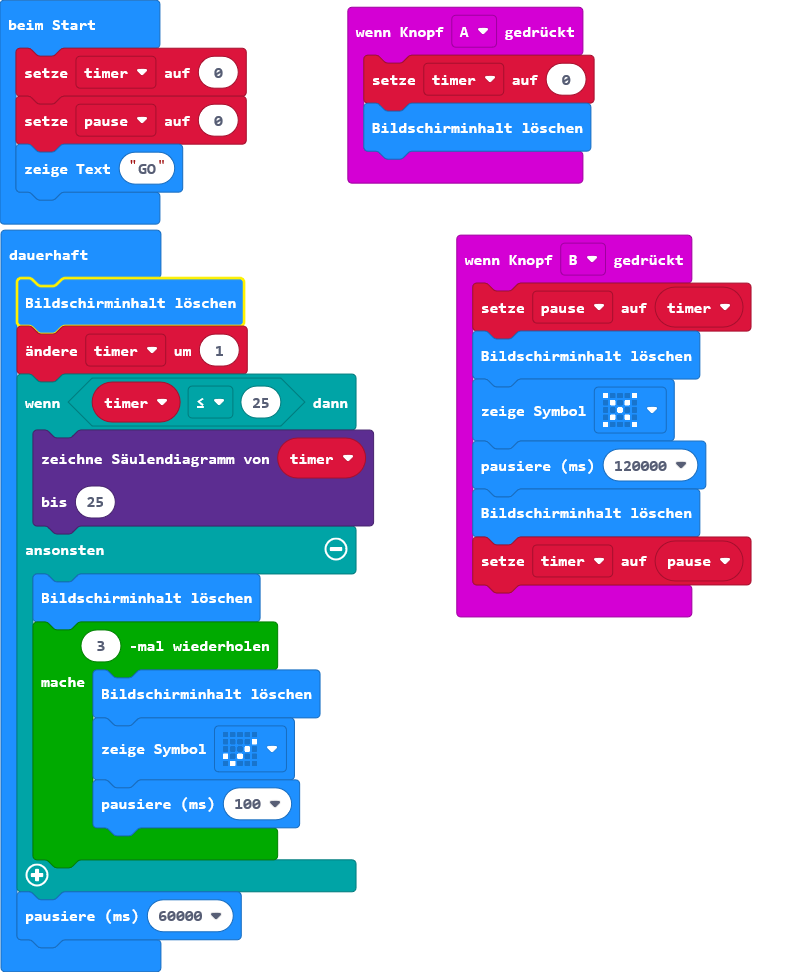
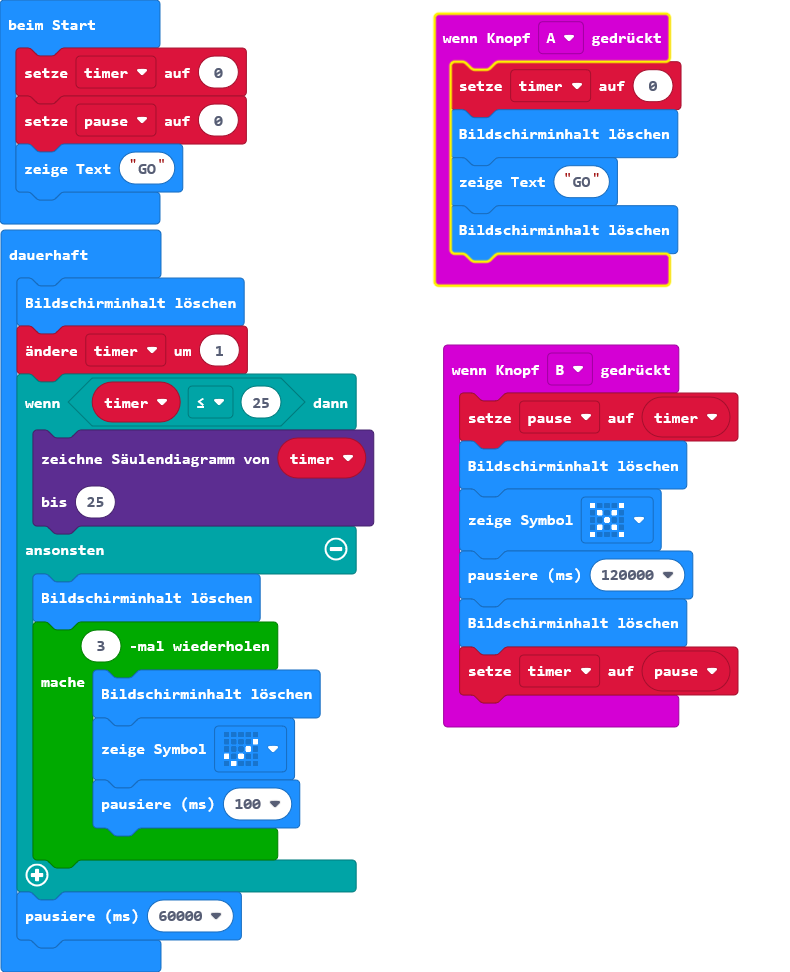
Aktualisiere main.blocks, main.ts

diff --git a/main.ts b/main.ts
@@ -1,6 +1,8 @@
 input.onButtonPressed(Button.A, function () {
     timer = 0
     basic.clearScreen()
+    basic.showString("GO")
+    basic.clearScreen()
 })
 input.onButtonPressed(Button.B, function () {
     pause2 = timer
